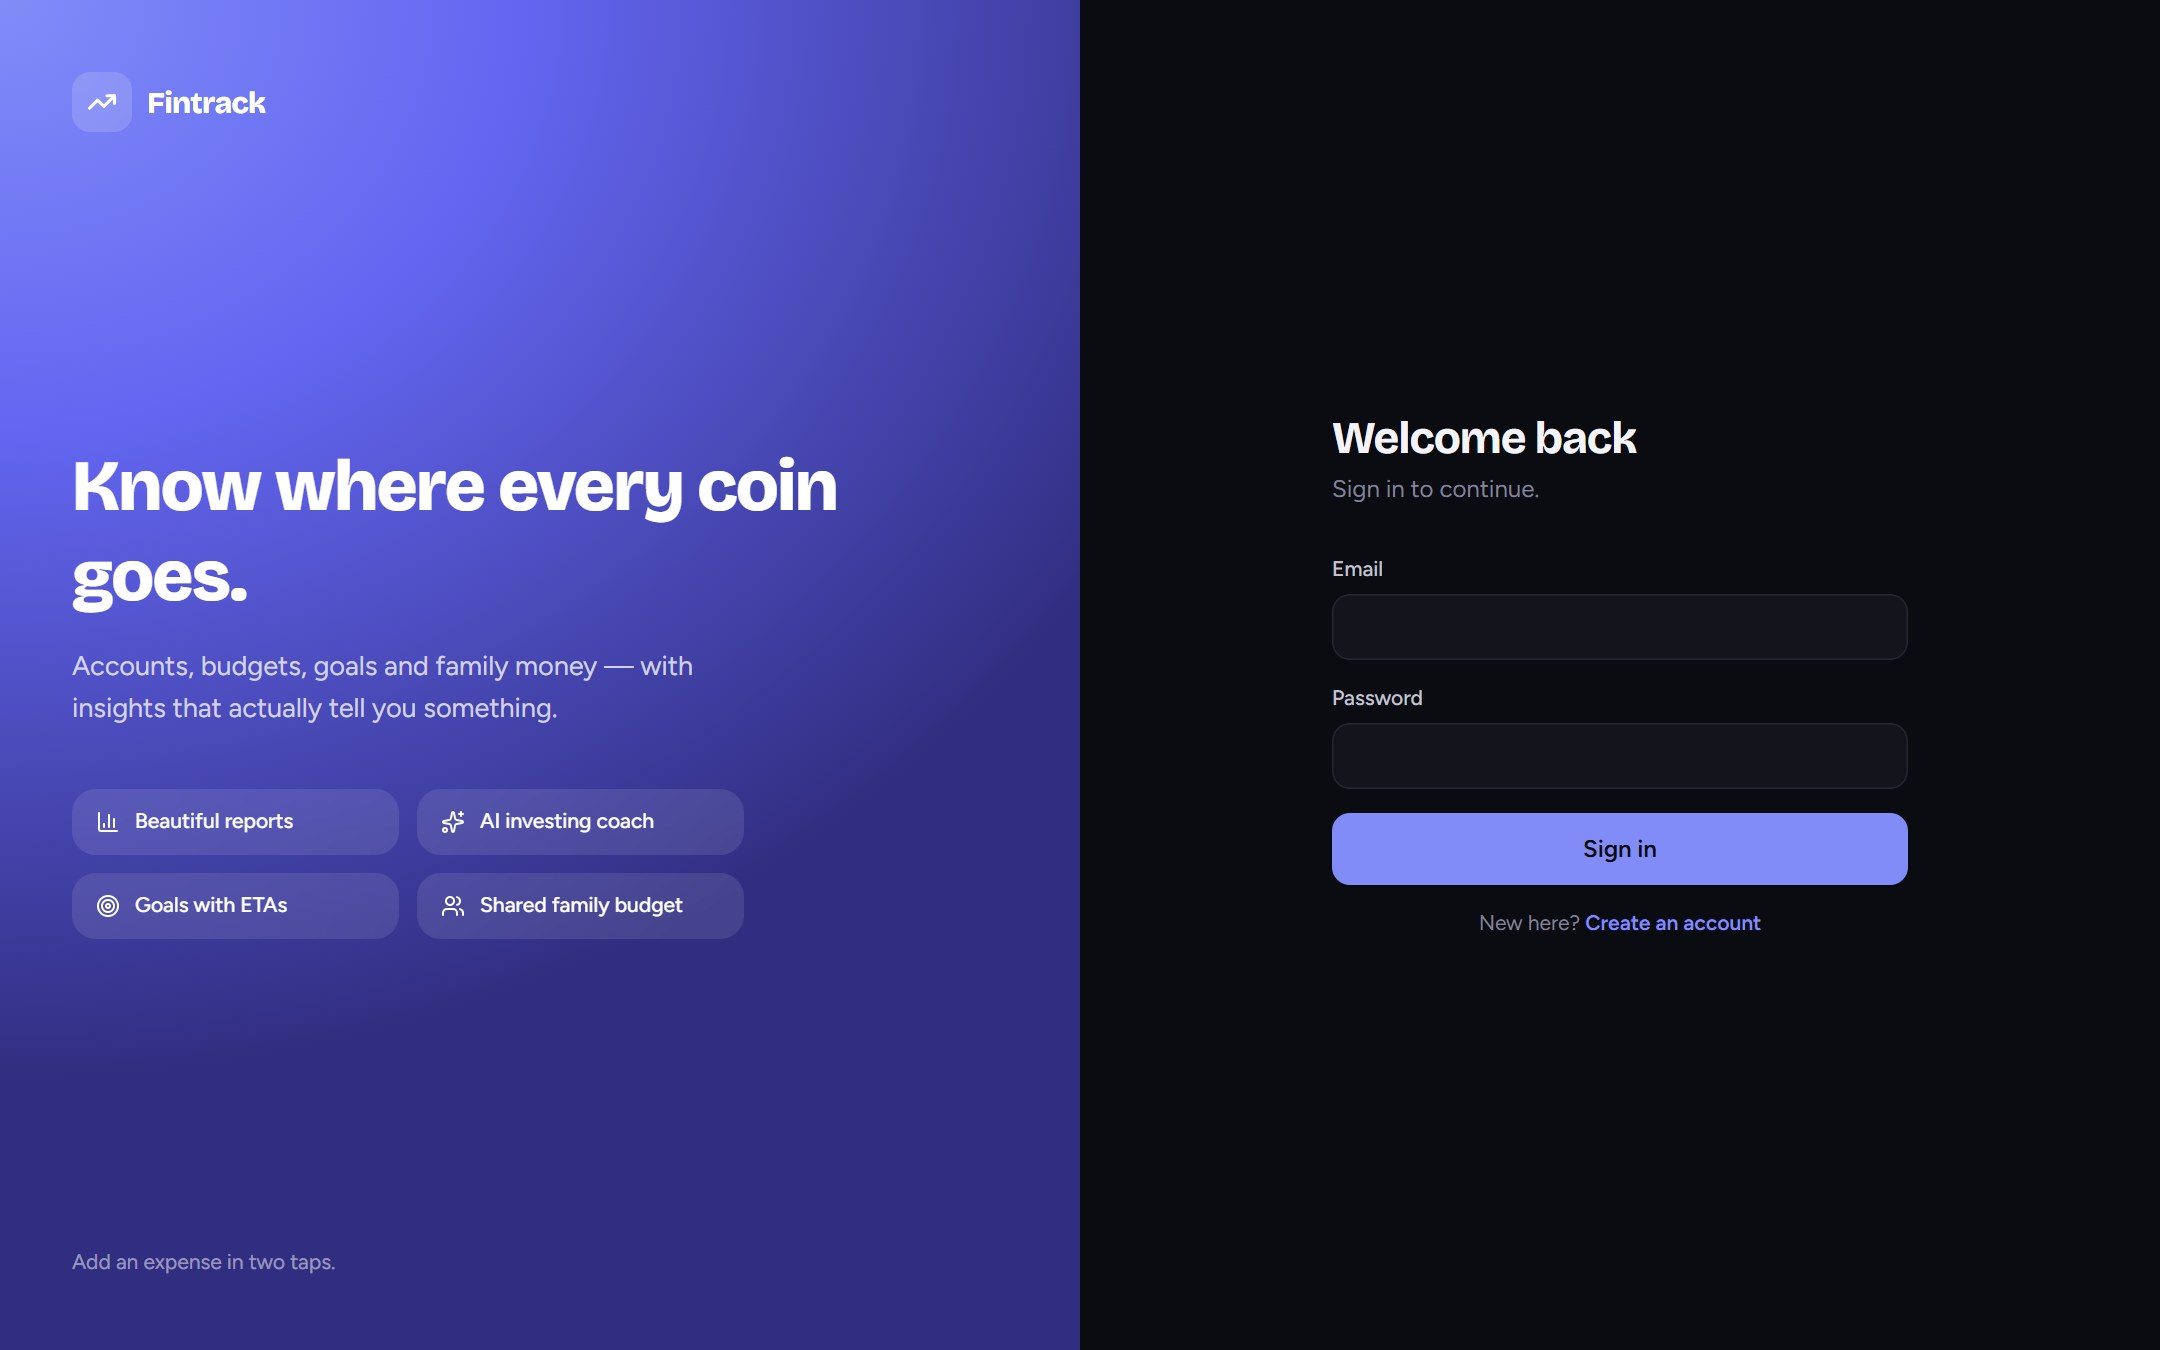
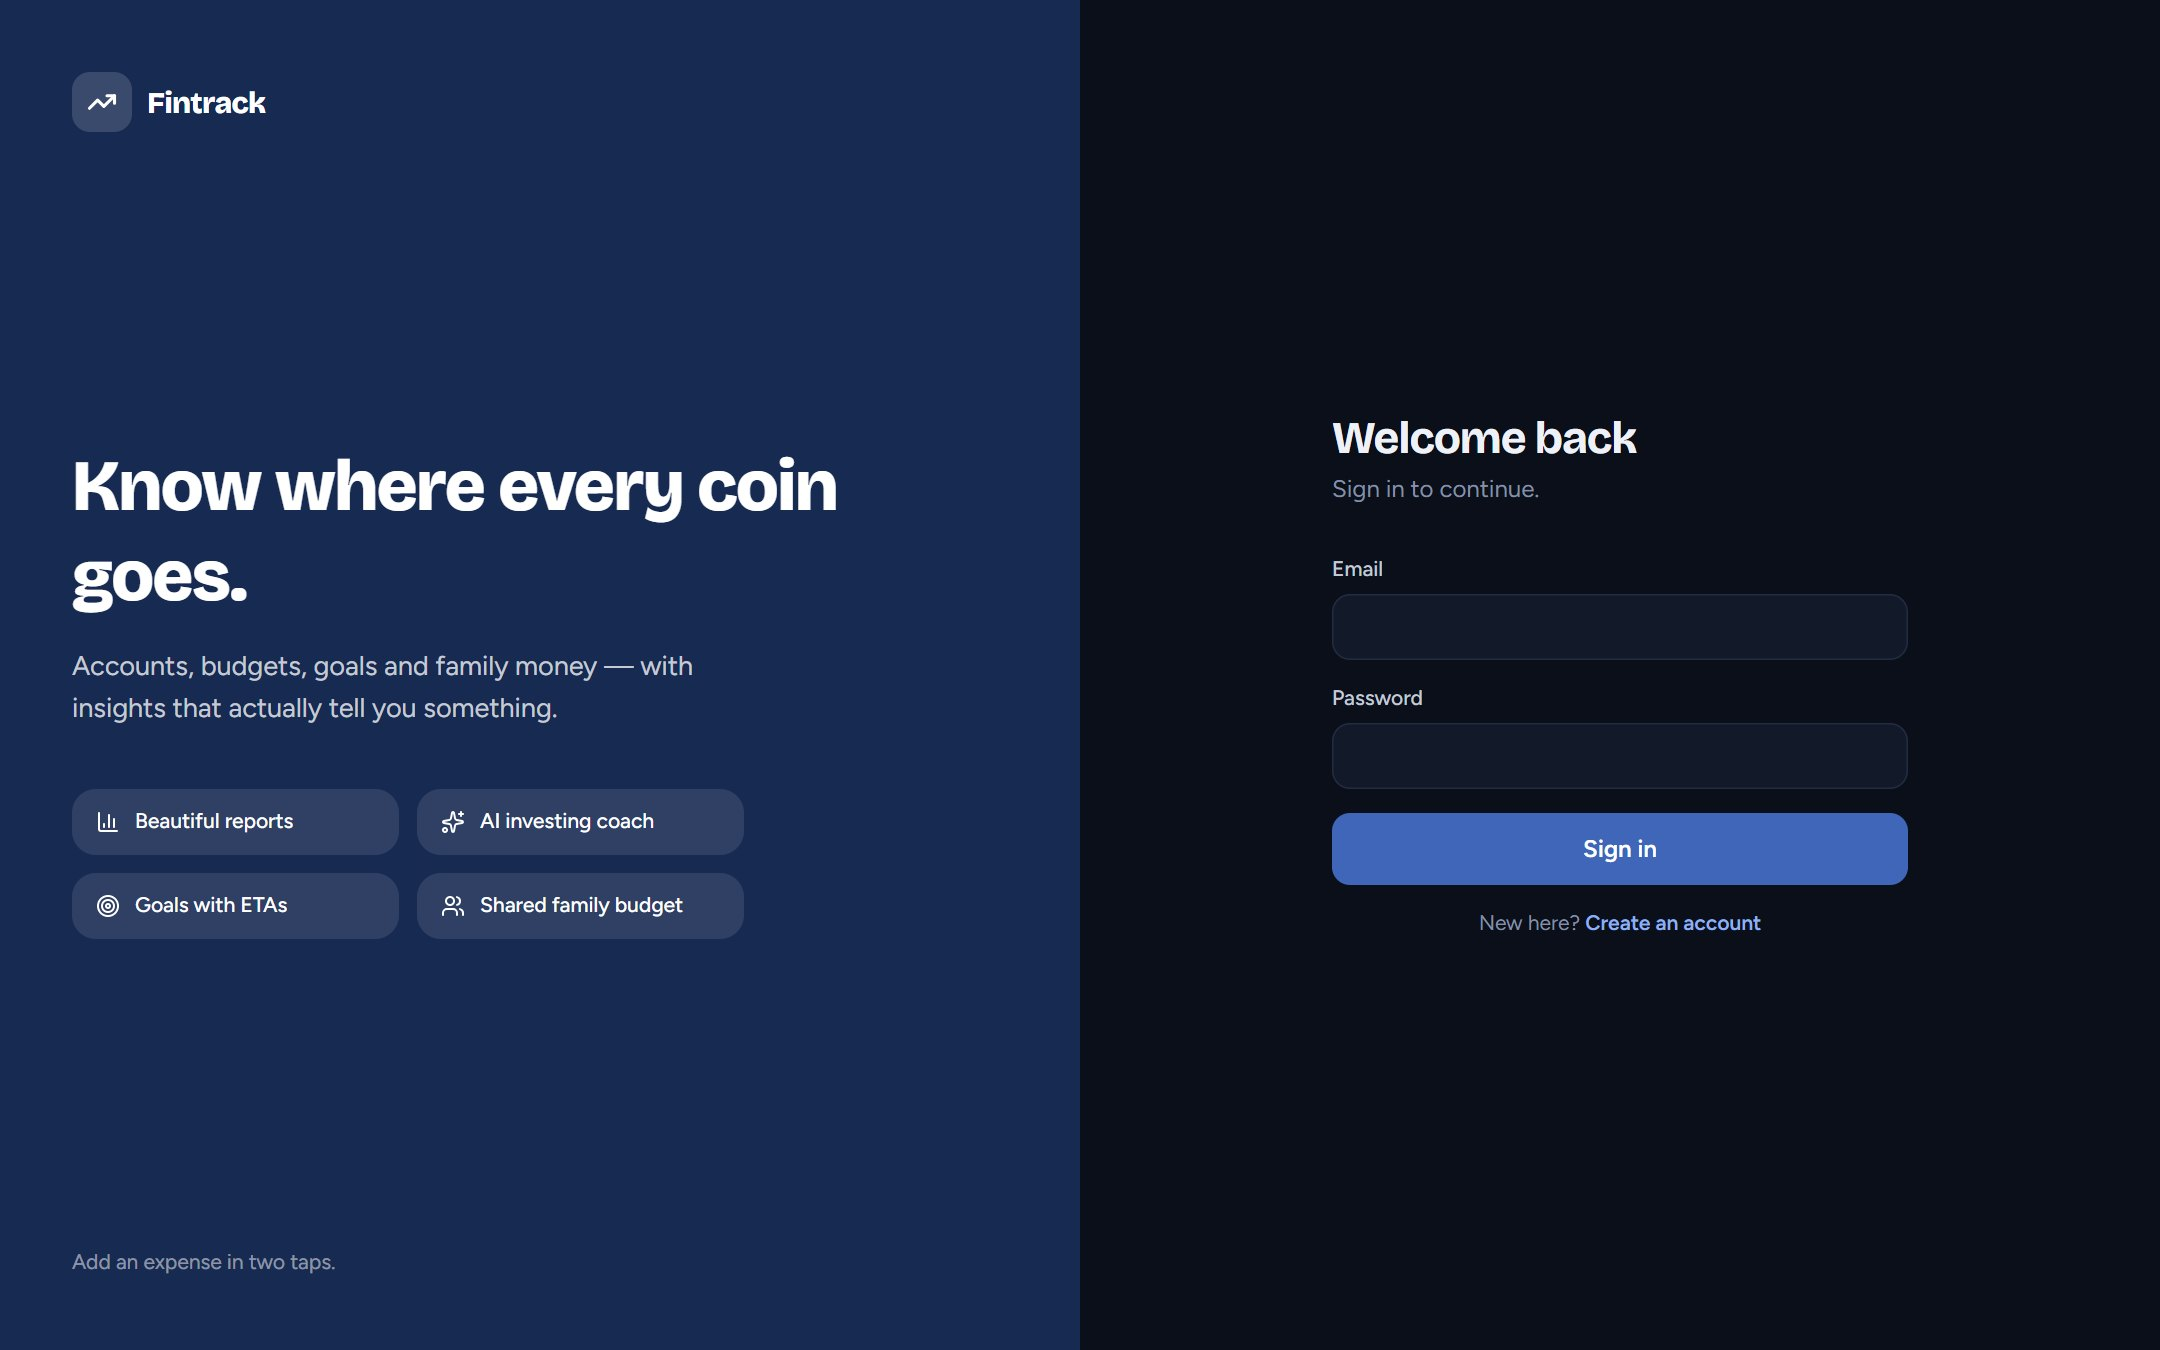
Show full amounts in hero tiles on phones; add README gallery for phone and states
- hero tiles show the number alone on small screens (the currency is in
  the headline), so amounts are no longer cut off
- README: phone, sign-in, first-run, loading and error screenshots;
  sign-in screenshot refreshed for the navy design

diff --git a/web/src/pages/Home.tsx b/web/src/pages/Home.tsx
@@ -108,7 +108,11 @@ export function Home() {
                 <p className="flex items-center gap-1 text-[11px] font-medium text-white/70">
                   <I className="size-3.5" /> {l}
                 </p>
-                <p className="mt-0.5 truncate text-sm font-bold num sm:text-base">{money(v, { compact: Math.abs(v) >= 100000 })}</p>
+                <p className="mt-0.5 truncate text-sm font-bold num sm:text-base" title={money(v)}>
+                  {/* Phones: number only — the currency is already in the headline above. */}
+                  <span className="sm:hidden">{moneyParts(v, user.baseCurrency).number}</span>
+                  <span className="hidden sm:inline">{money(v, { compact: Math.abs(v) >= 100000 })}</span>
+                </p>
               </div>
             ))}
           </div>

diff --git a/README.md b/README.md
@@ -49,6 +49,20 @@ reports that explain themselves, goals with real ETAs, and an AI coach that read
   </tr>
 </table>
 
+### On a phone, and when things aren't perfect
+
+<table>
+  <tr>
+    <td width="26%" rowspan="2"><img src="docs/screenshots/mobile-home.jpg" alt="Fintrack on a phone"><br><sub><b>Phone</b> — bottom navigation with a central add button; the headline figure scales to fit.</sub></td>
+    <td width="37%"><img src="docs/screenshots/signin.jpg" alt="Sign in"><br><sub><b>Sign in</b></sub></td>
+    <td width="37%"><img src="docs/screenshots/state-empty.jpg" alt="Empty state"><br><sub><b>First run</b> — every page has a helpful empty state; demo data is one click away.</sub></td>
+  </tr>
+  <tr>
+    <td><img src="docs/screenshots/state-loading.jpg" alt="Loading skeleton"><br><sub><b>Loading</b> — page-shaped skeletons, only if loading takes longer than 150ms.</sub></td>
+    <td><img src="docs/screenshots/state-error.jpg" alt="Error state"><br><sub><b>Errors</b> — a server error never looks like empty data; one tap to retry.</sub></td>
+  </tr>
+</table>
+
 ## How it's built
 
 ```
